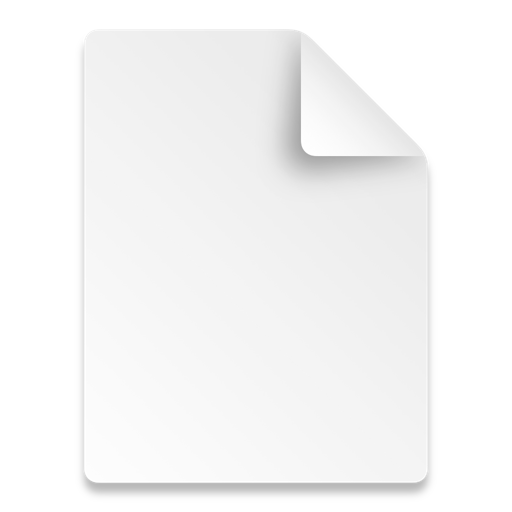
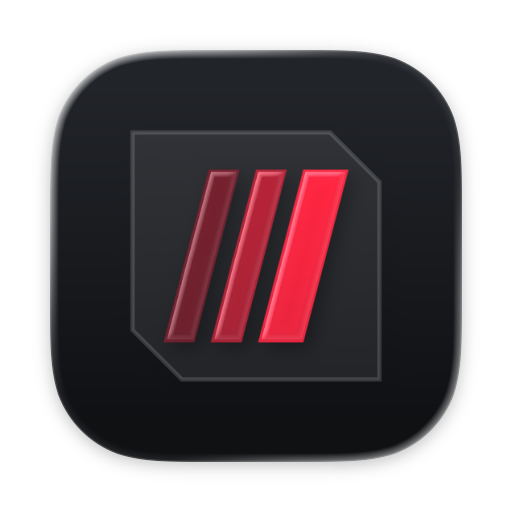
RogControl 0.2.0: popover position fix, mode badges, DMG installer
- Popover opened over the menu bar when it auto-hides: the status
  button's window then sits above the screen, and the panel was shown
  before SwiftUI reported its size, so it grew upward. It is now sized
  before showing and hangs from a 1 pt window at the bar's bottom edge.
- Mode icons: one filled family in the same chamfered badge (red when
  active) in the panel and the window.
- scripts/build-dmg.sh: drag-to-Applications DMG with a ROG background.
- README: real app icon (the old one was a blank document icon), DMG
  build line, release row. Version 0.2.0.

diff --git a/macos/RogControl/RogControl.swift b/macos/RogControl/RogControl.swift
@@ -147,7 +147,8 @@ enum Mode: String, CaseIterable, Identifiable {
     var id: String { rawValue }
     var title: String { ["silent": "Silent", "performance": "Performance", "turbo": "Turbo", "manual": "Custom"][rawValue]! }   // manual is shown as Custom
     var symbol: String {
-        ["silent": "leaf.fill", "performance": "gauge.with.dots.needle.67percent", "turbo": "flame.fill", "manual": "slider.horizontal.3"][rawValue]!
+        // one family: filled glyphs at one weight, drawn in the same chamfered badge (ModeBadge)
+        ["silent": "leaf.fill", "performance": "gauge.with.needle.fill", "turbo": "flame.fill", "manual": "dial.low.fill"][rawValue]!
     }
     var firmwareProfile: Int { self == .silent ? 2 : self == .turbo ? 1 : 0 }   // asus-wmi: 0 balanced, 1 overboost, 2 silent
     static func from(profile: Int?) -> Mode? { profile == 2 ? .silent : profile == 1 ? .turbo : profile == 0 ? .performance : nil }
@@ -483,6 +484,18 @@ struct ErrorLine: View {
 // ---- menu bar panel ------------------------------------------------------------------------------------------------------------
 // Same language as the window (dark, chamfered, one red), sized for a glance: temperature leads, then the mode, then the two
 // settings people change by hand (charge limit, keyboard light). Setup lives in the window.
+// The mode glyph in a small chamfered plate: red with a white glyph when active, raised grey otherwise.
+struct ModeBadge: View {
+    let mode: Mode, active: Bool, size: CGFloat
+    var body: some View {
+        Image(systemName: mode.symbol).font(.system(size: size * 0.5, weight: .semibold))
+            .foregroundStyle(active ? Color.white : T.dim)
+            .frame(width: size, height: size)
+            .background(active ? T.red : T.raised, in: Chamfer(cut: size * 0.25))
+            .accessibilityHidden(true)
+    }
+}
+
 struct PopoverTile: View {
     let mode: Mode, selected: Bool, unavailable: Bool, subtitle: String
     let action: () -> Void
@@ -491,8 +504,7 @@ struct PopoverTile: View {
         Button(action: action) {
             VStack(alignment: .leading, spacing: 7) {
                 HStack(spacing: 7) {
-                    Image(systemName: mode.symbol).font(.system(size: 12, weight: .semibold))
-                        .foregroundStyle(selected ? T.red : T.dim).frame(width: 16, height: 16)
+                    ModeBadge(mode: mode, active: selected, size: 20)
                     Text(mode.title).font(T.num(11.5)).foregroundStyle(T.text).lineLimit(1).fixedSize()
                     Spacer(minLength: 0)
                 }
@@ -1168,8 +1180,7 @@ struct DashboardPage: View {
             Card(cut: 12, pad: 14, active: active, stretch: true) {
                 VStack(alignment: .leading, spacing: 10) {
                     HStack {
-                        Image(systemName: mode.symbol).font(.system(size: 16, weight: .semibold)).foregroundStyle(active ? T.red : T.dim)
-                            .frame(width: 20, height: 20)
+                        ModeBadge(mode: mode, active: active, size: 26)
                         Spacer()
                         if active { Text("ACTIVE").font(.system(size: 9, weight: .bold)).tracking(1.2).foregroundStyle(T.red) }
                     }
@@ -1558,6 +1569,15 @@ struct GeneralPage: View {
 final class AppDelegate: NSObject, NSApplicationDelegate, NSPopoverDelegate, NSWindowDelegate {
     let item = NSStatusBar.system.statusItem(withLength: NSStatusItem.squareLength)
     let popover = NSPopover()
+    var popoverHost: NSHostingController<ContentView>!
+    // The popover hangs from this 1 pt window at the menu bar's bottom edge, under the icon. Anchoring to the status button
+    // itself puts the popover over the bar when the menu bar auto-hides: the button's window then sits above the screen.
+    let anchor: NSWindow = {
+        let w = NSWindow(contentRect: .zero, styleMask: .borderless, backing: .buffered, defer: true)
+        w.isOpaque = false; w.backgroundColor = .clear; w.hasShadow = false; w.ignoresMouseEvents = true
+        w.level = .statusBar; w.collectionBehavior = [.canJoinAllSpaces, .transient, .ignoresCycle]
+        return w
+    }()
     var model: RogModel!
     var window: NSWindow?
 
@@ -1567,7 +1587,9 @@ final class AppDelegate: NSObject, NSApplicationDelegate, NSPopoverDelegate, NSW
         popover.animates = false
         popover.delegate = self
         popover.appearance = NSAppearance(named: .darkAqua)   // the panel uses the window's dark ROG look
-        popover.contentViewController = NSHostingController(rootView: ContentView(m: model, openWindow: { [weak self] page, adv in self?.open(page, advanced: adv) }))
+        popoverHost = NSHostingController(rootView: ContentView(m: model, openWindow: { [weak self] page, adv in self?.open(page, advanced: adv) }))
+        popoverHost.sizingOptions = .preferredContentSize   // follow SwiftUI's size, so a new line grows the panel downward
+        popover.contentViewController = popoverHost
         item.button?.target = self
         item.button?.action = #selector(toggle)
         model.onChange = { [weak self] in self?.updateIcon() }
@@ -1582,10 +1604,20 @@ final class AppDelegate: NSObject, NSApplicationDelegate, NSPopoverDelegate, NSW
         model.refresh()
         model.loadCurve()
         model.visible = true
-        popover.show(relativeTo: b.bounds, of: b, preferredEdge: .minY)
+        popover.contentSize = popoverHost.view.fittingSize   // size before showing; a later resize would grow it upward off screen
+        if let bw = b.window {
+            let r = bw.convertToScreen(b.convert(b.bounds, to: nil))
+            let screen = NSScreen.screens.first { $0.frame.minX <= r.midX && r.midX < $0.frame.maxX } ?? NSScreen.main
+            let bottom = (screen?.frame.maxY ?? r.minY + bw.frame.height) - bw.frame.height
+            anchor.setFrame(NSRect(x: r.minX, y: bottom, width: r.width, height: 1), display: false)
+            anchor.orderFront(nil)
+            popover.show(relativeTo: anchor.contentView!.bounds, of: anchor.contentView!, preferredEdge: .minY)
+        } else {
+            popover.show(relativeTo: b.bounds, of: b, preferredEdge: .minY)
+        }
         popover.contentViewController?.view.window?.makeKey()
     }
-    func popoverDidClose(_ n: Notification) { updateVisibility() }
+    func popoverDidClose(_ n: Notification) { anchor.orderOut(nil); updateVisibility() }
     func updateVisibility() { model.visible = popover.isShown || window?.isVisible == true }
     func windowWillClose(_ n: Notification) {
         model.visible = popover.isShown

diff --git a/macos/RogControl/dmg/render-background.swift b/macos/RogControl/dmg/render-background.swift
@@ -1,0 +1,42 @@
+// SPDX-License-Identifier: BSD-3-Clause-Clear
+// Draws the DMG window background (660 x 400 pt, 1x and 2x): dark ROG plate, a slanted-segment arrow from the app to
+// Applications, one line of instructions. Icons sit at x 170 and 490, y 190 (set by scripts/build-dmg.sh).
+import AppKit
+
+func draw(scale: CGFloat, to path: String) {
+    let W: CGFloat = 660, H: CGFloat = 400
+    let rep = NSBitmapImageRep(bitmapDataPlanes: nil, pixelsWide: Int(W * scale), pixelsHigh: Int(H * scale), bitsPerSample: 8,
+                               samplesPerPixel: 4, hasAlpha: true, isPlanar: false, colorSpaceName: .deviceRGB, bytesPerRow: 0, bitsPerPixel: 0)!
+    rep.size = NSSize(width: W, height: H)
+    NSGraphicsContext.saveGraphicsState(); NSGraphicsContext.current = NSGraphicsContext(bitmapImageRep: rep)
+    let c = NSGraphicsContext.current!.cgContext
+    c.translateBy(x: 0, y: H); c.scaleBy(x: 1, y: -1)          // top-left origin, points
+    let g = CGGradient(colorsSpace: CGColorSpace(name: CGColorSpace.sRGB),
+                       colors: [NSColor(srgbRed: 0.075, green: 0.08, blue: 0.095, alpha: 1).cgColor,
+                                NSColor(srgbRed: 0.043, green: 0.047, blue: 0.055, alpha: 1).cgColor] as CFArray, locations: [0, 1])!
+    c.drawLinearGradient(g, start: .zero, end: CGPoint(x: 0, y: H), options: [])
+    // arrow: five slanted segments brightening toward Applications
+    let red = (r: 1.0, g: 0.13, b: 0.24)
+    for i in 0..<5 {
+        let x = 268 + CGFloat(i) * 24, y: CGFloat = 178, w: CGFloat = 14, h: CGFloat = 24, k: CGFloat = 8
+        let a = 0.25 + 0.75 * CGFloat(i) / 4
+        let p = CGMutablePath()
+        p.move(to: CGPoint(x: x + k, y: y)); p.addLine(to: CGPoint(x: x + k + w, y: y))
+        p.addLine(to: CGPoint(x: x + w, y: y + h)); p.addLine(to: CGPoint(x: x, y: y + h)); p.closeSubpath()
+        c.addPath(p); c.setFillColor(NSColor(srgbRed: red.r, green: red.g, blue: red.b, alpha: a).cgColor); c.fillPath()
+    }
+    // flip back for text
+    c.scaleBy(x: 1, y: -1); c.translateBy(x: 0, y: -H)
+    func text(_ s: String, _ size: CGFloat, _ weight: NSFont.Weight, _ color: NSColor, y: CGFloat, tracking: CGFloat = 0) {
+        let a = NSAttributedString(string: s, attributes: [.font: NSFont.systemFont(ofSize: size, weight: weight), .foregroundColor: color, .kern: tracking])
+        let sz = a.size(); a.draw(at: NSPoint(x: (W - sz.width) / 2, y: H - y - sz.height))
+    }
+    text("ROG CONTROL", 13, .bold, NSColor(white: 0.93, alpha: 1), y: 36, tracking: 2.5)
+    text("Drag ROG Control into Applications", 13, .regular, NSColor(white: 0.62, alpha: 1), y: 318)
+    text("Needs AsusWmi.kext loaded through OpenCore", 11, .regular, NSColor(white: 0.40, alpha: 1), y: 342)
+    NSGraphicsContext.restoreGraphicsState()
+    try! rep.representation(using: .png, properties: [:])!.write(to: URL(fileURLWithPath: path))
+}
+let out = CommandLine.arguments[1]
+draw(scale: 1, to: out + "/background.png")
+draw(scale: 2, to: out + "/background@2x.png")

diff --git a/README.vi.md b/README.vi.md
@@ -56,6 +56,7 @@ giới hạn công suất là của GA403WM. Chi tiết từng tính năng và v
 
 | Release | Nội dung |
 |---|---|
+| [rogcontrol-v0.2.0](https://github.com/thanhnndev/rog-control-macos/releases/tag/rogcontrol-v0.2.0) | `RogControl-0.2.0.dmg`: app ROG mới (giao diện ROG, icon), mở DMG rồi kéo vào Applications. Kext giữ nguyên ở `rog-v1.0` |
 | [rog-v1.0](https://github.com/thanhnndev/rog-control-macos/releases/tag/rog-v1.0) | `AsusWmi.kext`, `AmdCppc.kext`, `AmdCppcPolicy`, `RogControl.app`, `SHA256SUMS.txt`. Binary chép nguyên từ `kext-v1.1` của repo EFI; cùng checksum |
 
 ## Build
@@ -68,6 +69,7 @@ bash scripts/build-amdcppc-policy.sh       # build/AmdCppcPolicy
 bash scripts/test-rogcontrol.sh            # test giải mã đường cong quạt, không ghi phần cứng
 bash scripts/build-rogcontrol.sh           # build/RogControl.app
 bash scripts/build-rogcontrol.sh --install # chép vào /Applications, chạy khi đăng nhập
+bash scripts/build-dmg.sh                  # build/RogControl-<version>.dmg, kéo thả vào Applications
 ```
 
 CI build tương tự trên `macos-14` và tải lên các file zip (ký ad-hoc, không notarize).

diff --git a/README.md b/README.md
@@ -57,6 +57,7 @@ are untested; the power-limit ranges are the GA403WM's. Per-feature detail and t
 
 | Release | Contents |
 |---|---|
+| [rogcontrol-v0.2.0](https://github.com/thanhnndev/rog-control-macos/releases/tag/rogcontrol-v0.2.0) | `RogControl-0.2.0.dmg`: the redesigned app (ROG look, app icon); open it and drag the app into Applications. Kexts unchanged, still in `rog-v1.0` |
 | [rog-v1.0](https://github.com/thanhnndev/rog-control-macos/releases/tag/rog-v1.0) | `AsusWmi.kext`, `AmdCppc.kext`, `AmdCppcPolicy`, `RogControl.app`, `SHA256SUMS.txt`. Binaries copied unchanged from `kext-v1.1` of the EFI repo; same checksums |
 
 ## Build
@@ -69,6 +70,7 @@ bash scripts/build-amdcppc-policy.sh       # build/AmdCppcPolicy
 bash scripts/test-rogcontrol.sh            # fan-curve decoding, never writes hardware
 bash scripts/build-rogcontrol.sh           # build/RogControl.app
 bash scripts/build-rogcontrol.sh --install # copy to /Applications, start at login
+bash scripts/build-dmg.sh                  # build/RogControl-<version>.dmg, drag-to-Applications installer
 ```
 
 CI builds the same on `macos-14` and uploads the zips (ad-hoc signed; nothing is notarized).
